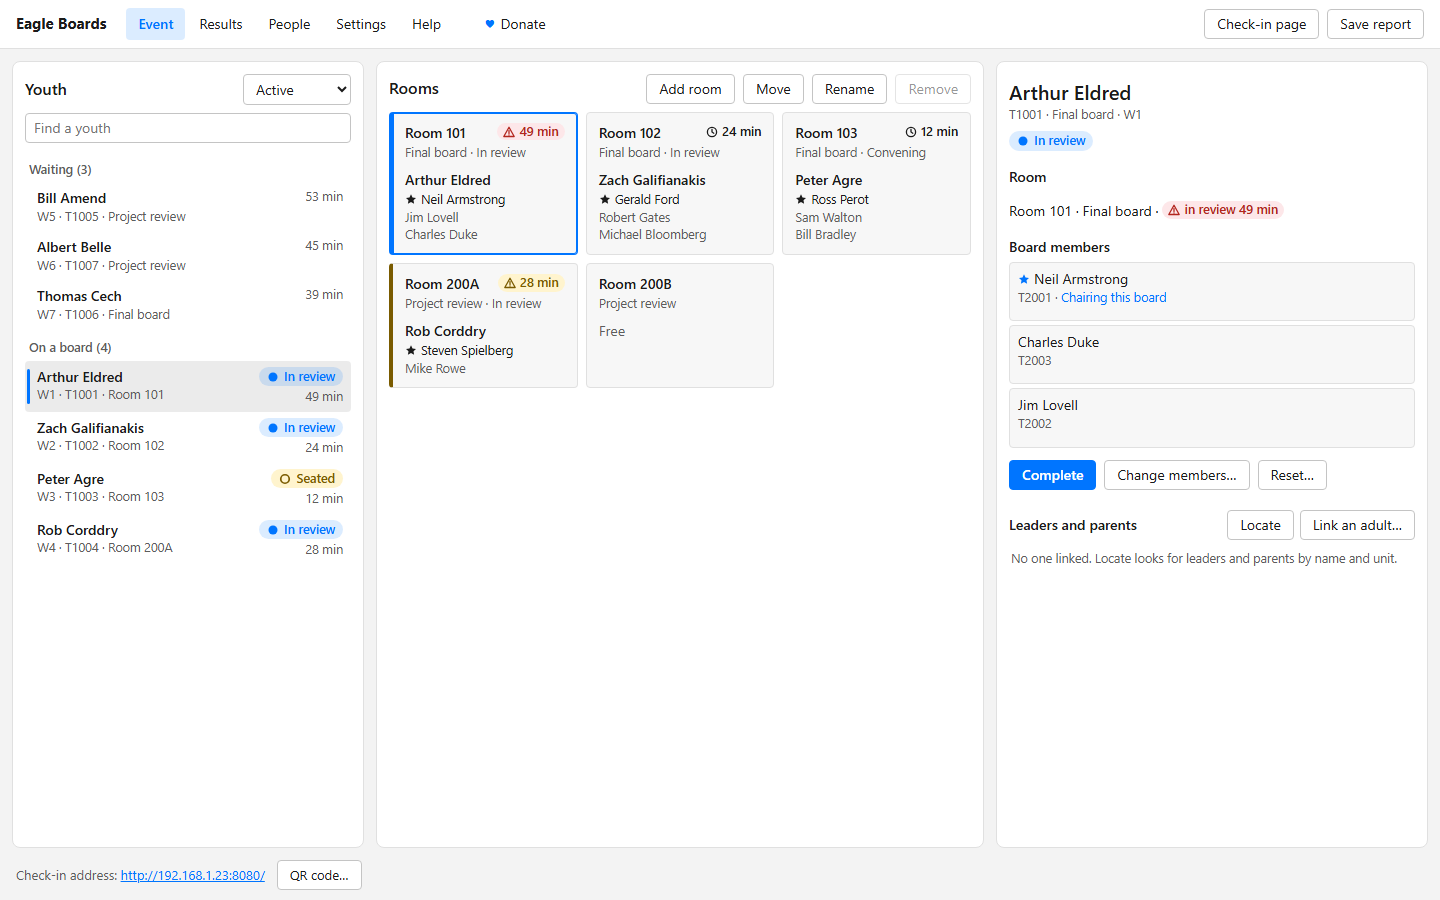
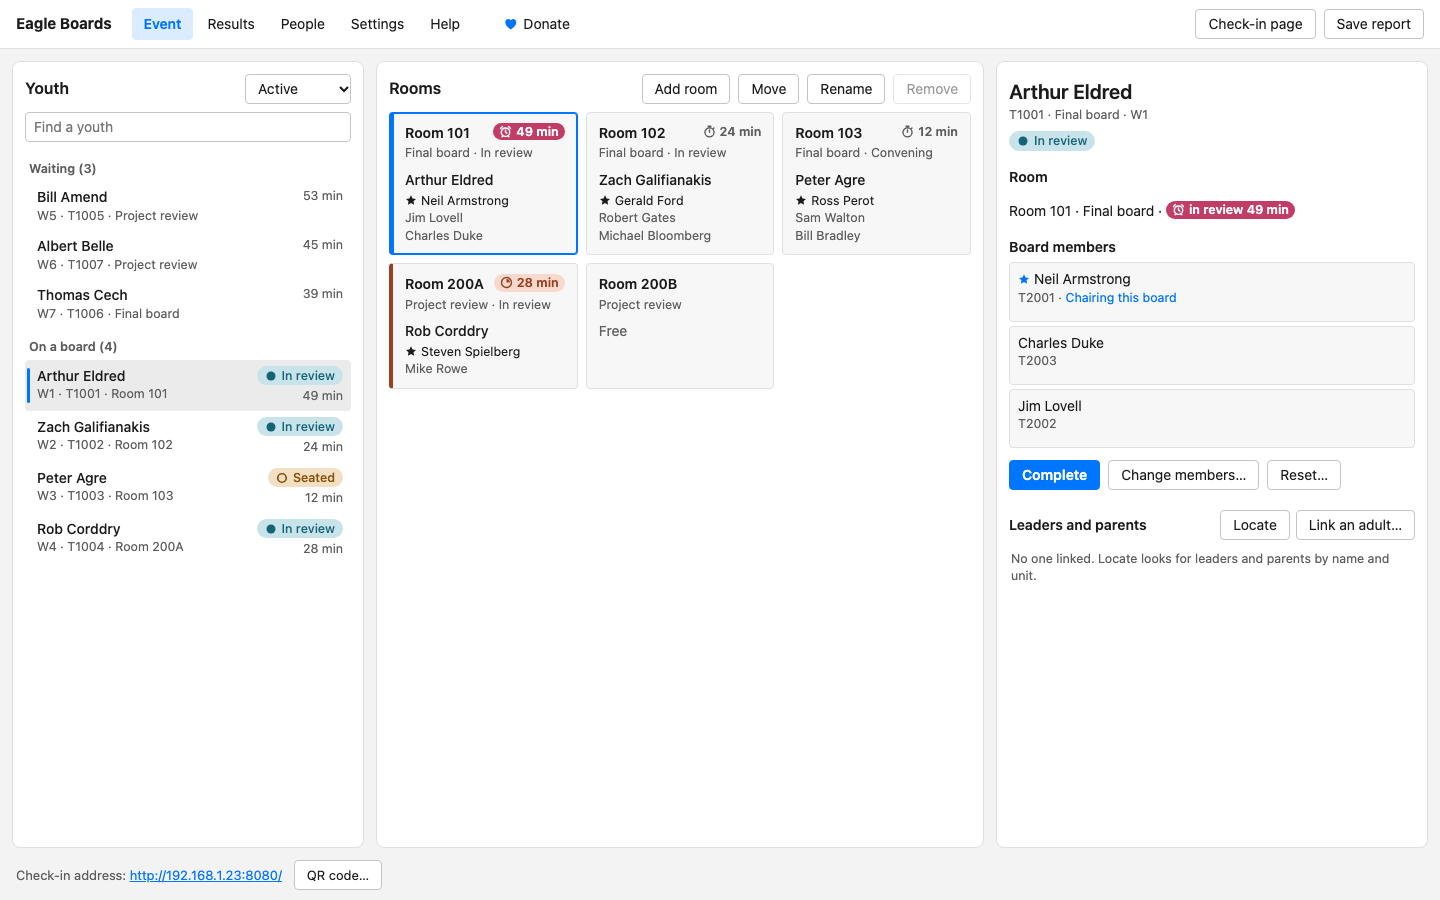
README: re-shoot the Event page pictures in the status palette
The Event page, Seat board and Complete pictures showed the old colors
and one warning icon for both late timers. They are taken again from
the current build with the same demo cast and scene: room 101 overdue
at 49 minutes under an alarm clock, 200A running long at 28 under a
timer clock, and the status pills in the shared palette. Results and
Settings are re-shot in the same pass so they all agree. The check-in
pictures were already current.

The Event page's alt text now says overdue and running long, not red
and yellow.

diff --git a/README.md b/README.md
@@ -11,7 +11,7 @@ and for you, is a web page served from that one computer.
 
 <picture>
   <source media="(prefers-color-scheme: dark)" srcset="docs/images/event-dark.png">
-  <img src="docs/images/event.png" alt="The Event page mid-event: the Youth list with three waiting and four on a board; room cards with Arthur Eldred's final board in room 101 flagged red at 49 minutes and Rob Corddry's project review in 200A flagged yellow at 28 minutes; and the details pane showing Arthur Eldred's board, chaired by Neil Armstrong, ready to complete">
+  <img src="docs/images/event.png" alt="The Event page mid-event: the Youth list with three waiting and four on a board; room cards with Arthur Eldred's final board in room 101 overdue at 49 minutes (an alarm clock on a pink-red fill) and Rob Corddry's project review in 200A running long at 28 minutes (a timer clock on an orange tint); and the details pane showing Arthur Eldred's board, chaired by Neil Armstrong, ready to complete">
 </picture>
 
 **If you are here to run an event, this page is the whole manual.** The
